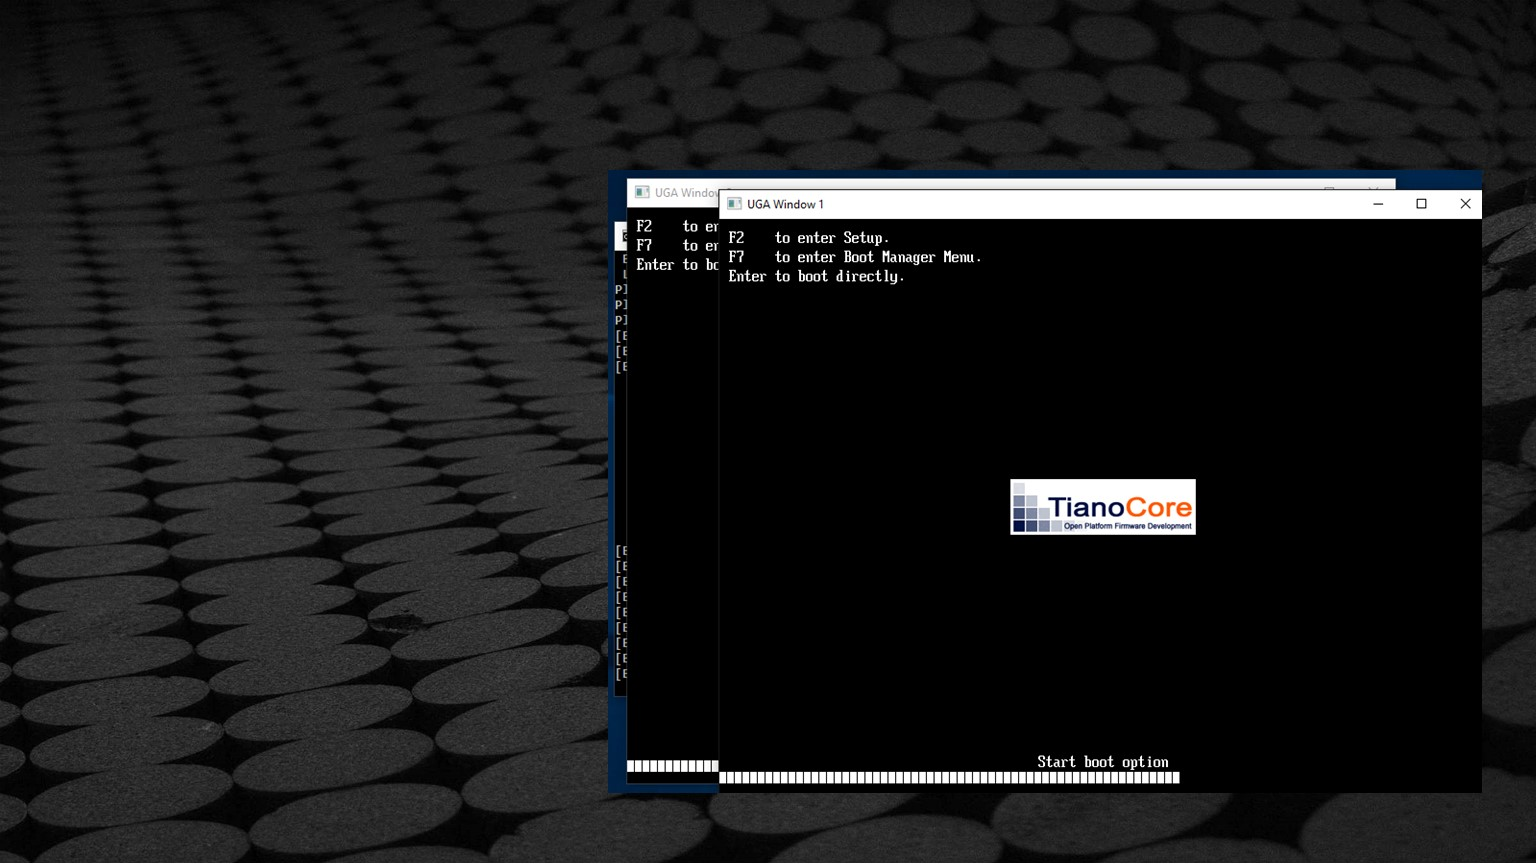
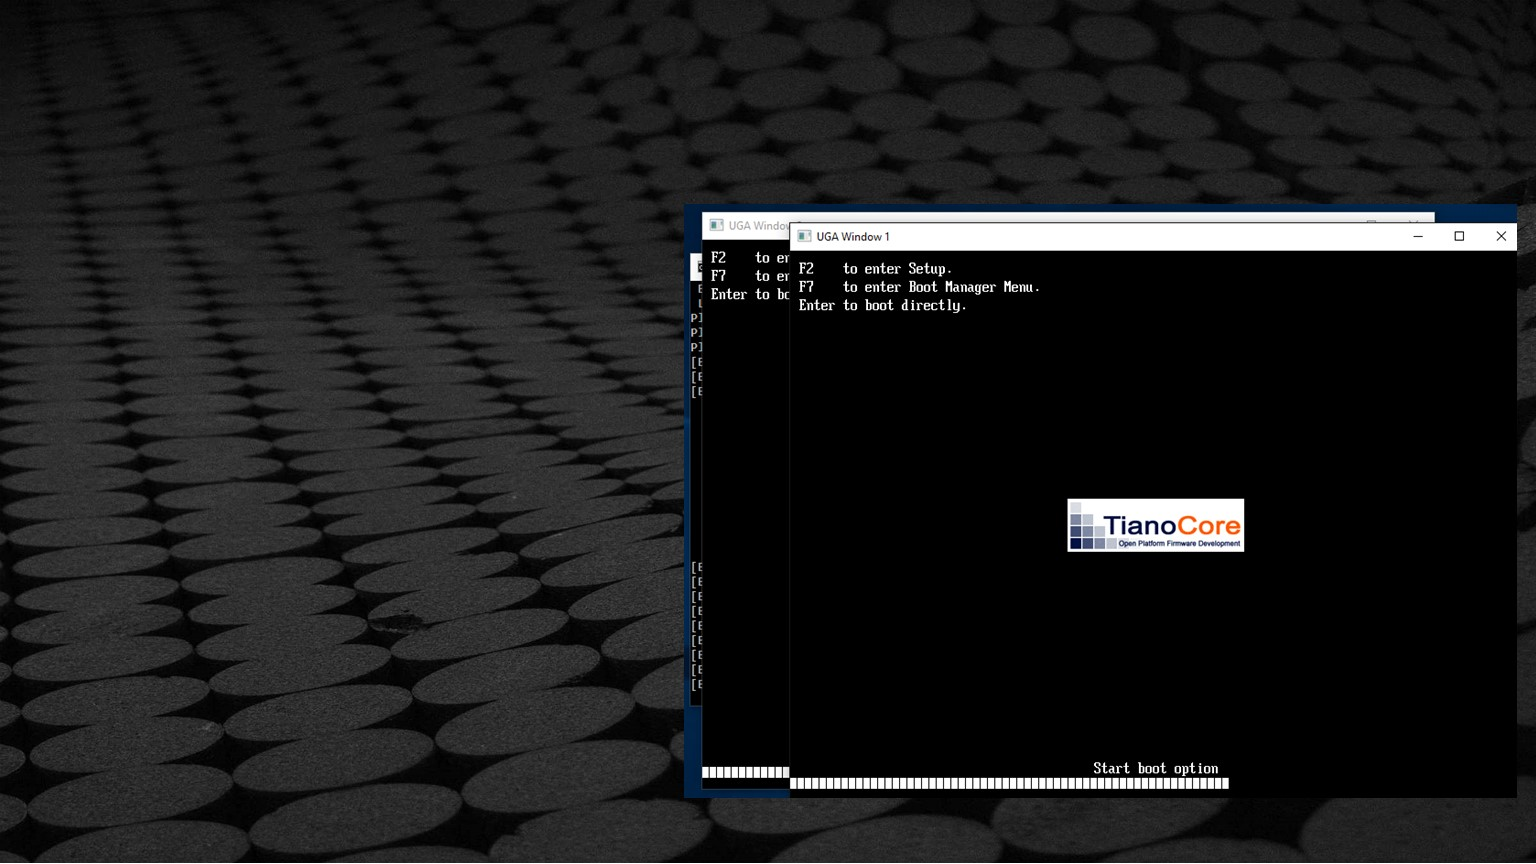
Signed-off-by: Laurie0131 <laurie.jarlstrom@intel.com>

diff --git a/PITCHME.md b/PITCHME.md
@@ -431,10 +431,12 @@ Note:
 ### <p align="right"><span class="gold" >Invoke Nt32 Emulation</span></p>
 @snap[north-west span-45 ]
 <br>
+<br>
 <p style="line-height:80%" align="left"><span style="font-size:0.8em" >From the command prompt<br><br></span>
-&nbsp;&nbsp;<font face="Consolas"><span style="background-color: #000000; font-size:0.50em; ">
+&nbsp;&nbsp;<font face="Consolas"><span style="background-color: #000000; font-size:0.55em; ">
 &nbsp;&nbsp;C:\FW\edk2&gt;  Build Run &nbsp;&nbsp;</span></font></p>
-
+<br>
+<p style="line-height:80%" align="left"><span style="font-size:0.6em" > Notice 2 "UGA Window n" are opened </span></p>
 @snapend
 
 
